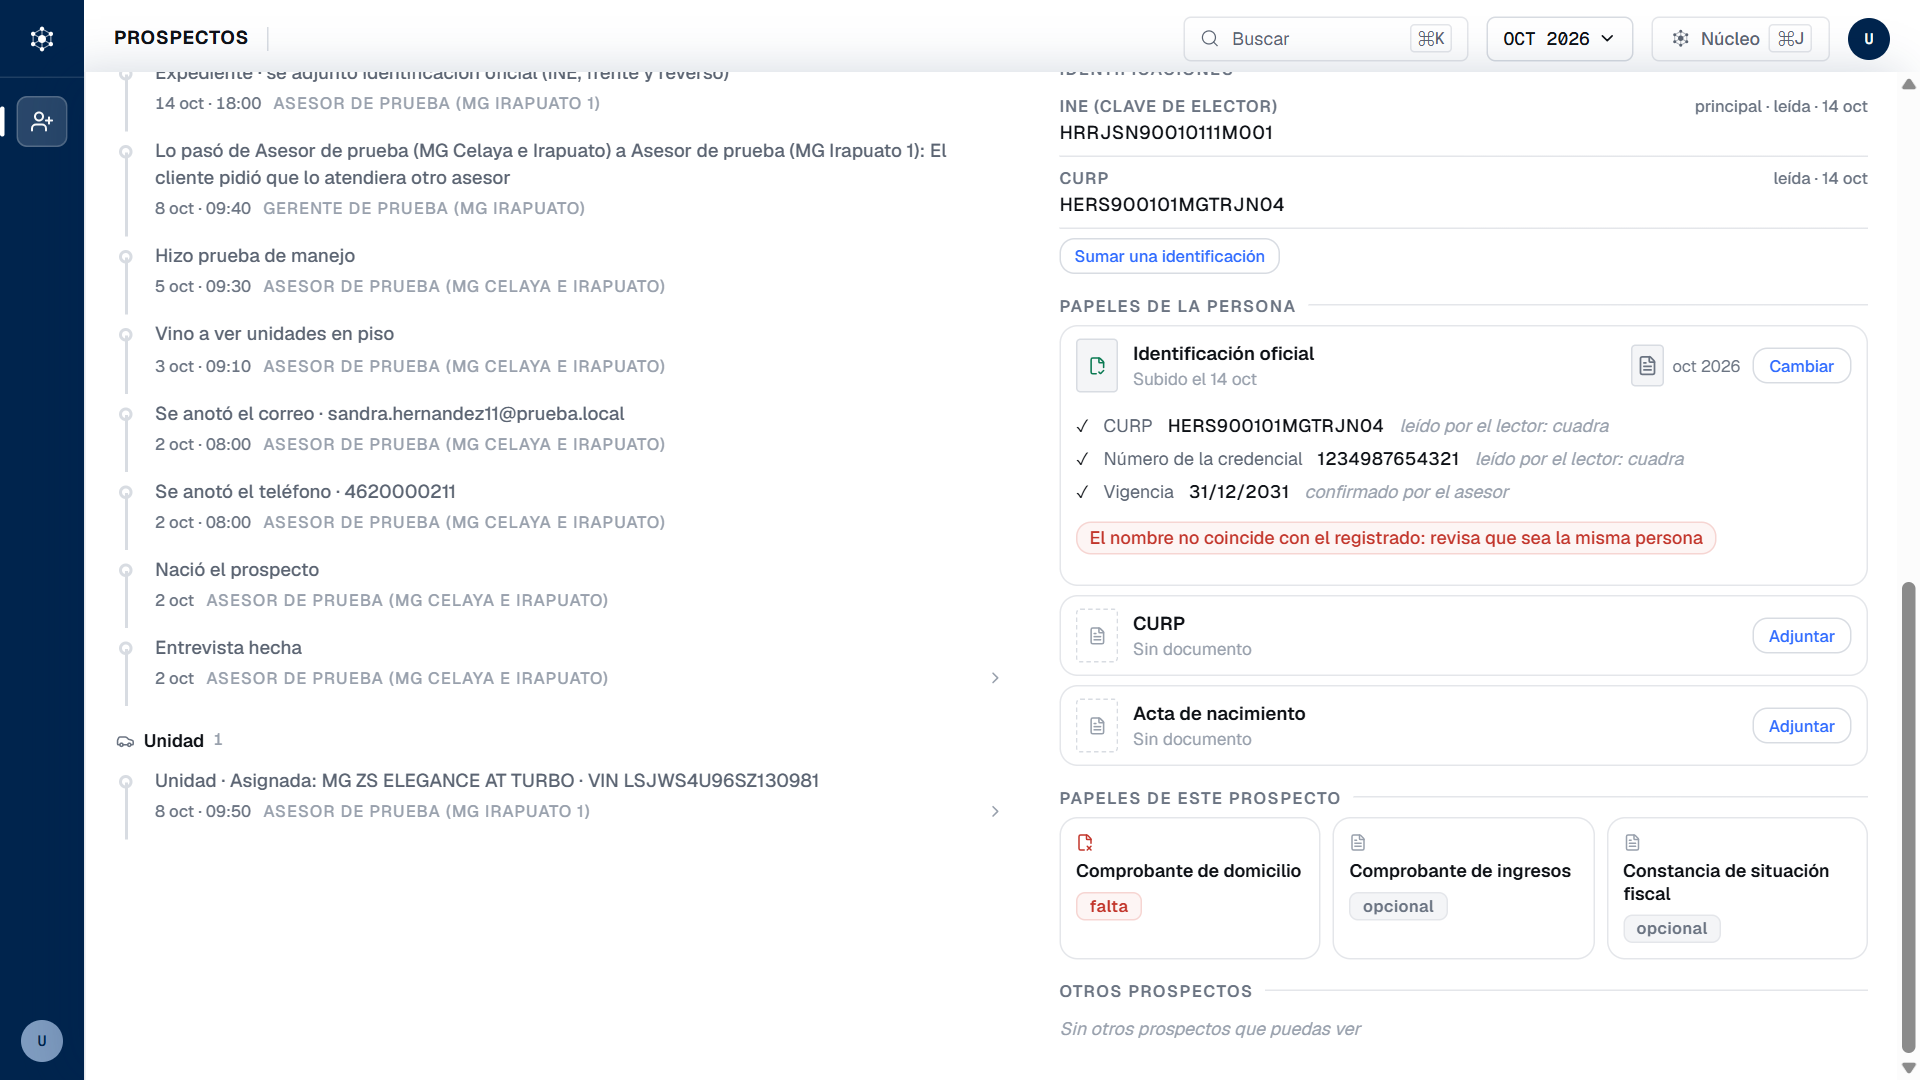
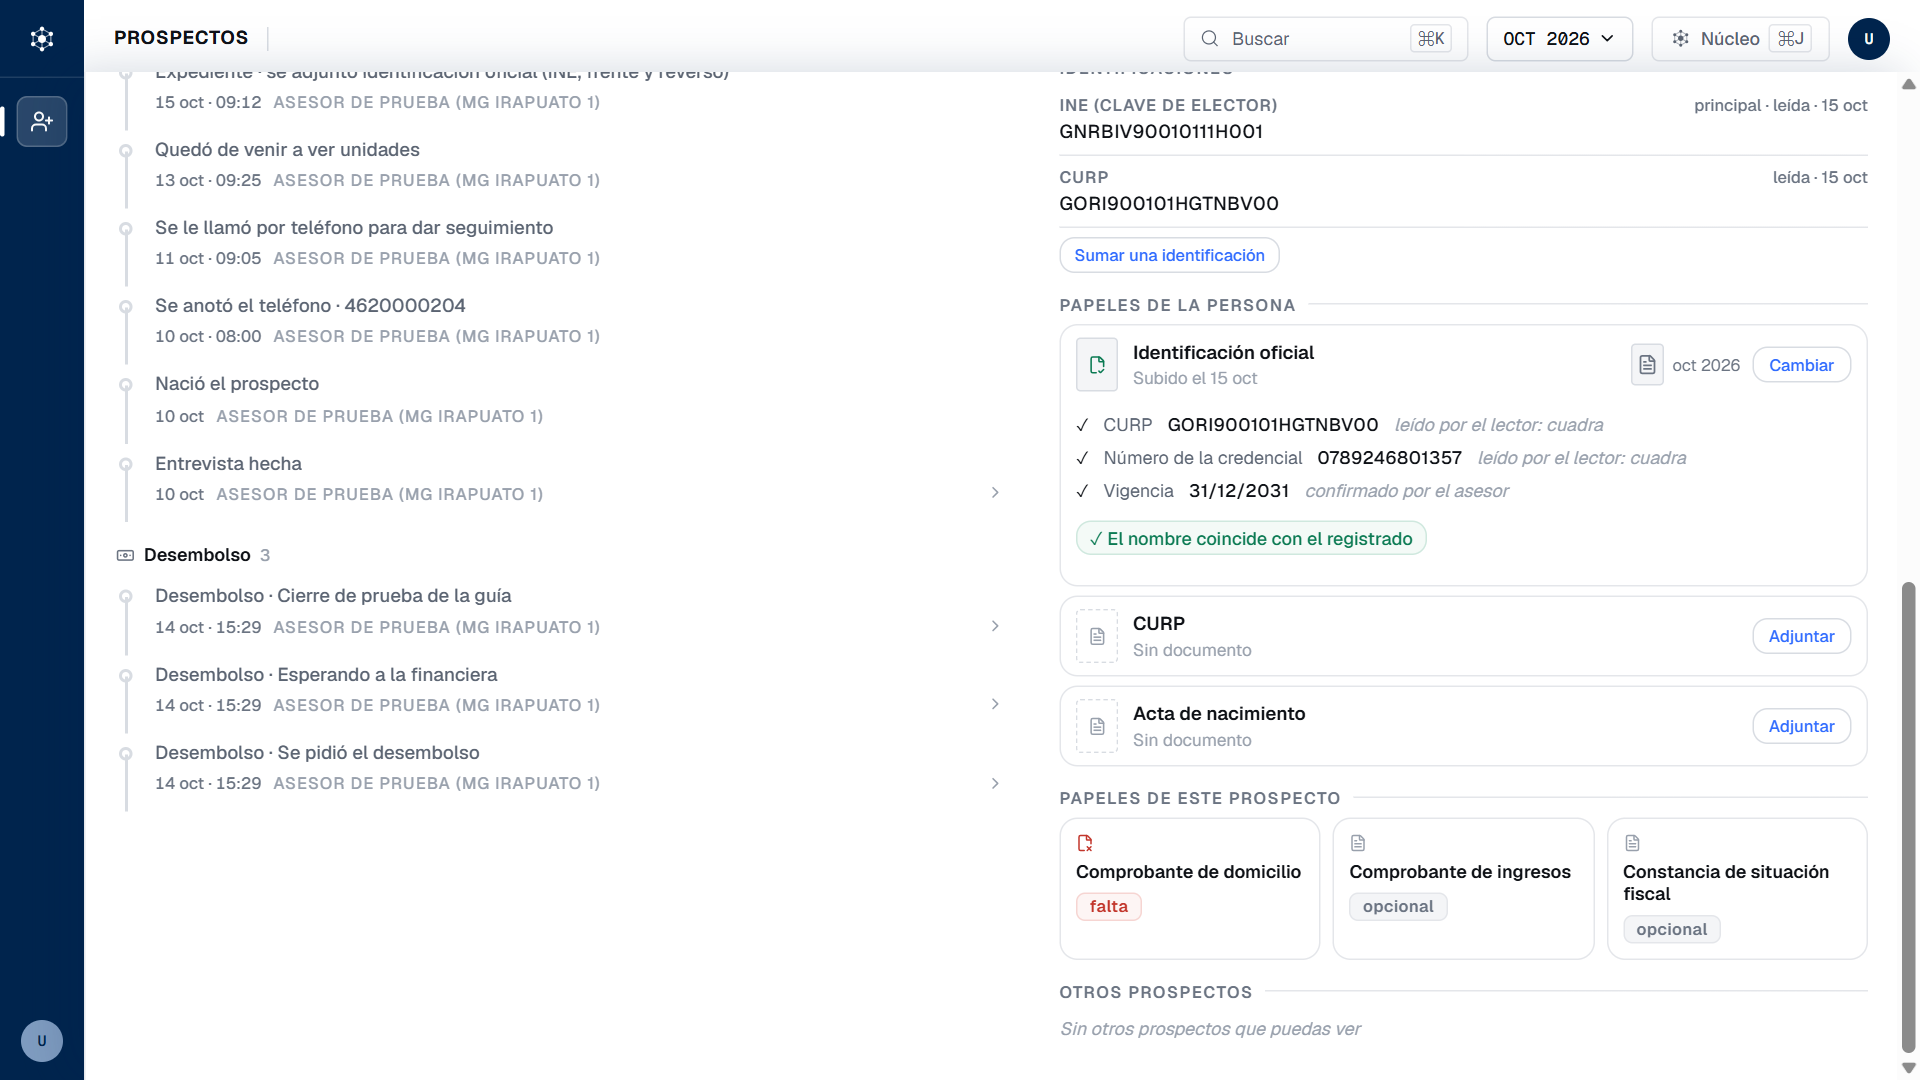
Guía de Prospectos: 2.7 con las capturas de la INE ya con el aviso del nombre arreglado
Se rehicieron las seis capturas de la INE de la sección 2.7 con la API ya corregida: el aviso
del nombre sale verde («El nombre coincide con el registrado») y el «Ojo» del paso 5 ahora
explica cuándo sale rojo. La INE es una tarjeta de muestra; todos los datos son inventados.

diff --git a/index.html b/index.html
@@ -665,11 +665,11 @@
     <ul class="renglones">
       <li><b>Fíjate en:</b> Lo que el lector comprobó lleva ✓ y «leído por el lector: cuadra». Lo que dudó lleva «?», un dibujo de la credencial con su zona marcada y el valor leído en un campo.</li>
       <li><b>Qué pasa después:</b> Compara con la credencial y toca «Es correcto»; si el valor está mal, corrígelo en el campo y toca «Guardar». El dato queda «confirmado por el asesor».</li>
-      <li><b>Ojo:</b> El aviso rojo «El nombre no coincide con el registrado» sale hoy aunque el nombre sí coincida: es una falla conocida de la app. Compara tú el nombre con la credencial.</li>
+      <li><b>Ojo:</b> Bajo la lectura, un aviso compara el nombre de la credencial con el registrado: verde si coincide y rojo si no; en ese caso, revisa que sea la misma persona.</li>
     </ul>
     <figure class="dos">
-      <div><img src="capturas/guia/2.7-8-lo-que-leyo.png" alt="Lo que leyó el lector: CURP y número con ✓ y la vigencia con «?», con su zona marcada y el botón Es correcto"><i class="marco der" style="left:55.4%;top:9.4%;width:41.6%;height:6.5%"><b>Comprobado</b></i><i class="marco der" style="left:56.0%;top:16.2%;width:40.4%;height:30.5%"><b>Dudoso</b></i><i class="marco derecha" style="left:77.8%;top:41.3%;width:7.2%;height:4.2%"><b>Es correcto</b></i><span>Antes</span></div>
-      <div><img src="capturas/guia/2.7-10-confirmada.png" alt="Los tres datos con ✓; la vigencia dice «confirmado por el asesor»"><i class="marco derecha" style="left:55.4%;top:37.7%;width:41.6%;height:9.4%"><b>Confirmado</b></i><span>Después</span></div>
+      <div><img src="capturas/guia/2.7-8-lo-que-leyo.png" alt="Lo que leyó el lector: CURP y número con ✓ y la vigencia con «?», con su zona marcada y el botón Es correcto"><i class="marco der" style="left:55.4%;top:9.3%;width:41.6%;height:6.5%"><b>Comprobado</b></i><i class="marco der" style="left:56.0%;top:16.1%;width:40.4%;height:30.5%"><b>Dudoso</b></i><i class="marco derecha" style="left:77.8%;top:41.2%;width:7.2%;height:4.2%"><b>Es correcto</b></i><span>Antes</span></div>
+      <div><img src="capturas/guia/2.7-10-confirmada.png" alt="Los tres datos con ✓; la vigencia dice «confirmado por el asesor»"><i class="marco derecha" style="left:55.4%;top:37.5%;width:41.6%;height:9.4%"><b>Confirmado</b></i><span>Después</span></div>
     </figure>
   </section>
 
